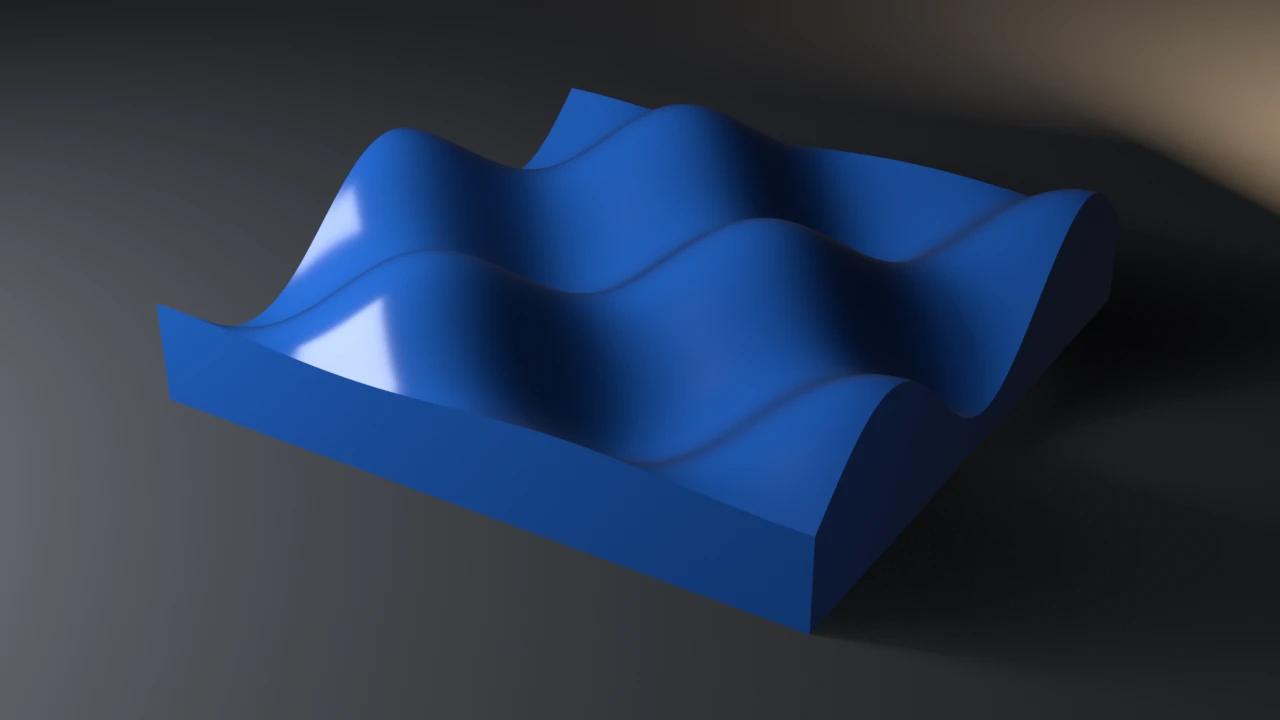
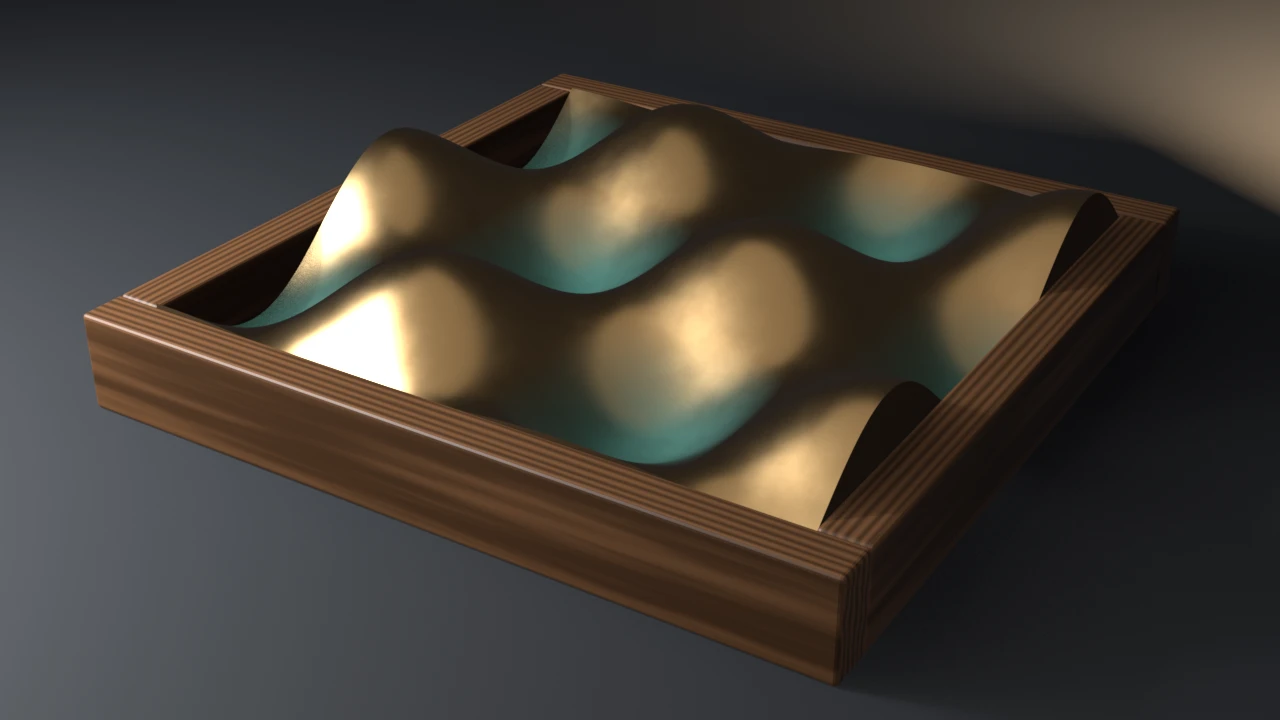
fix(examples): redesign wave-displace as a cast bronze tile in a walnut frame
The render-only tile copy (the checked grid plus an extruded skirt) is now
cast bronze, polished on the crests with verdigris pooled in the troughs.
The patina mask is the tile's own object-space Z, so the colouring is a
readout of the displaced height the check asserts. A walnut frame whose
rails stop at mid-wave height surrounds it, so the crests rise proud of the
frame and the troughs sink below it. A broad soft overhead card gives the
bronze something to mirror. The render path now runs the gallery_framing
gate (exit 10); before this, the README quoted framing numbers the script
never measured. The displacement (one foreach_get, one foreach_set) and
both checks are unchanged.

Evidence (live runs, local):
- .scratch/blender-5.2.1-windows-x64/blender.exe (Blender 5.2.1 LTS):
  check-only exit 0, verts=9409 z_span=1.0999 max_err=2.98e-08.
  --flat exits 4 ("z-span 0.0000 not in (0.8800, 1.1000]").
- .scratch/blender-4.5.11-windows-x64/blender.exe (Blender 4.5.11 LTS):
  check exit 0 with the same numbers; --output render exit 0, framing ok.
- Framing: fill x=0.856 y=0.850, margins l=0.066 r=0.078 b=0.050 t=0.100.
- Contact sheet (docs/gallery/contact-sheets/wave-displace-contact-sheet.webp):
  candidate luma 0.244 / stage 0.225 / warmth +0.106 / sat 0.258, against
  armature-bend 0.243/0.192/-0.144/0.237, damped-track-aim
  0.237/0.218/+0.105/0.178, and bmesh-gear 0.236/0.177/+0.303/0.250.
  Luma, warmth and saturation are inside the band; the stage is slightly
[…]

diff --git a/examples/wave-displace/wave_displace.py b/examples/wave-displace/wave_displace.py
@@ -18,6 +18,11 @@ check. Pass --output to also render a still:
 import bpy, bmesh, sys, os, math, argparse
 from array import array
 
+# Shared Layer 1 framing measurement (render path only) — see gallery_framing.py
+sys.path.insert(0, os.path.join(os.path.dirname(os.path.abspath(__file__)), os.pardir))
+sys.dont_write_bytecode = True  # keep examples/__pycache__ out of the repo tree
+import gallery_framing  # noqa: E402
+
 GRID = 96          # segments per side -> (GRID+1)^2 verts
 SIZE = 6.0
 AMP = 0.55
@@ -75,16 +80,93 @@ def eevee_engine_id():
     return 'BLENDER_EEVEE' if bpy.app.version >= (5, 0, 0) else 'BLENDER_EEVEE_NEXT'
 
 
+def bronze_material():
+    """Cast bronze: polished on the crests, verdigris pooled in the troughs.
+
+    The patina mask is the tile's own object-space Z — the displaced wave
+    height the check asserts — so the colouring is a readout of the wave.
+    """
+    mat = bpy.data.materials.new("CastBronze")
+    mat.use_nodes = True
+    nt = mat.node_tree
+    out = nt.nodes["Material Output"]
+    metal = nt.nodes["Principled BSDF"]
+    metal.inputs["Base Color"].default_value = (0.82, 0.52, 0.23, 1.0)
+    metal.inputs["Metallic"].default_value = 1.0
+    metal.inputs["Roughness"].default_value = 0.26
+    patina = nt.nodes.new("ShaderNodeBsdfPrincipled")
+    patina.inputs["Base Color"].default_value = (0.07, 0.24, 0.19, 1.0)
+    patina.inputs["Roughness"].default_value = 0.72
+    coord = nt.nodes.new("ShaderNodeTexCoord").outputs["Object"]
+    sep = nt.nodes.new("ShaderNodeSeparateXYZ")
+    nt.links.new(coord, sep.inputs["Vector"])
+    band = nt.nodes.new("ShaderNodeMapRange")          # trough (z=-AMP) -> 1, mid -> 0
+    band.inputs["From Min"].default_value = -AMP
+    band.inputs["From Max"].default_value = -0.05
+    band.inputs["To Min"].default_value = 0.85
+    band.inputs["To Max"].default_value = 0.0
+    nt.links.new(sep.outputs["Z"], band.inputs["Value"])
+    noise = nt.nodes.new("ShaderNodeTexNoise")
+    noise.inputs["Scale"].default_value = 2.5
+    noise.inputs["Detail"].default_value = 8.0
+    nt.links.new(coord, noise.inputs["Vector"])
+    speck = nt.nodes.new("ShaderNodeMapRange")
+    speck.inputs["To Min"].default_value = 0.55
+    speck.inputs["To Max"].default_value = 1.25
+    nt.links.new(noise.outputs["Fac"], speck.inputs["Value"])
+    fac = nt.nodes.new("ShaderNodeMath")
+    fac.operation = "MULTIPLY"
+    fac.use_clamp = True
+    nt.links.new(band.outputs["Result"], fac.inputs[0])
+    nt.links.new(speck.outputs["Result"], fac.inputs[1])
+    rough = nt.nodes.new("ShaderNodeMapRange")          # hand-polish wear on the metal
+    rough.inputs["To Min"].default_value = 0.20
+    rough.inputs["To Max"].default_value = 0.40
+    nt.links.new(noise.outputs["Fac"], rough.inputs["Value"])
+    nt.links.new(rough.outputs["Result"], metal.inputs["Roughness"])
+    mix = nt.nodes.new("ShaderNodeMixShader")
+    nt.links.new(fac.outputs["Value"], mix.inputs["Fac"])
+    nt.links.new(metal.outputs["BSDF"], mix.inputs[1])
+    nt.links.new(patina.outputs["BSDF"], mix.inputs[2])
+    nt.links.new(mix.outputs["Shader"], out.inputs["Surface"])
+    return mat
+
+
+def walnut_material():
+    mat = bpy.data.materials.new("Walnut")
+    mat.use_nodes = True
+    nt = mat.node_tree
+    b = nt.nodes["Principled BSDF"]
+    base = (0.15, 0.065, 0.026)
+    b.inputs["Roughness"].default_value = 0.42
+    coord = nt.nodes.new("ShaderNodeTexCoord").outputs["Object"]
+    mapping = nt.nodes.new("ShaderNodeMapping")
+    mapping.inputs["Scale"].default_value = (0.5, 12.0, 12.0)
+    nt.links.new(coord, mapping.inputs["Vector"])
+    tex = nt.nodes.new("ShaderNodeTexWave")
+    tex.wave_type = "BANDS"
+    tex.bands_direction = "Y"
+    tex.inputs["Scale"].default_value = 0.35
+    tex.inputs["Distortion"].default_value = 6.0
+    tex.inputs["Detail"].default_value = 4.0
+    nt.links.new(mapping.outputs["Vector"], tex.inputs["Vector"])
+    ramp = nt.nodes.new("ShaderNodeValToRGB")
+    ramp.color_ramp.elements[0].color = (*(c * 0.55 for c in base), 1.0)
+    ramp.color_ramp.elements[1].color = (*(c * 1.5 for c in base), 1.0)
+    nt.links.new(tex.outputs["Fac"], ramp.inputs["Fac"])
+    nt.links.new(ramp.outputs["Color"], b.inputs["Base Color"])
+    return mat
+
+
 def render_still(obj, path, engine):
     scene = bpy.context.scene
-    for poly in obj.data.polygons:
-        poly.use_smooth = True
-    mat = bpy.data.materials.new("WaveMat")
-    mat.use_nodes = True
-    bsdf = mat.node_tree.nodes["Principled BSDF"]
-    bsdf.inputs["Base Color"].default_value = (0.012, 0.09, 0.38, 1.0)  # deep sapphire
-    bsdf.inputs["Roughness"].default_value = 0.18
-    obj.data.materials.append(mat)
+    bronze = bronze_material()
+    cast = bpy.data.materials.new("CastSide")      # sand-cast flanks, no polish
+    cast.use_nodes = True
+    cb = cast.node_tree.nodes["Principled BSDF"]
+    cb.inputs["Base Color"].default_value = (0.30, 0.17, 0.08, 1.0)
+    cb.inputs["Metallic"].default_value = 1.0
+    cb.inputs["Roughness"].default_value = 0.55
 
     # render-only staging: the displaced grid is the contract and stays as
     # checked. A copy of it gets a skirt, its boundary extruded straight
@@ -95,6 +177,8 @@ def render_still(obj, path, engine):
     bm = bmesh.new()
     try:
         bm.from_mesh(tile_me)
+        for f in bm.faces:
+            f.smooth = True
         rim = [e for e in bm.edges if e.is_boundary]
         ret = bmesh.ops.extrude_edge_only(bm, edges=rim)
         skirt = [g for g in ret["geom"] if isinstance(g, bmesh.types.BMFace)]
@@ -102,17 +186,50 @@ def render_still(obj, path, engine):
             if isinstance(g, bmesh.types.BMVert):
                 g.co.z = -AMP - base
         bottom = [g for g in ret["geom"] if isinstance(g, bmesh.types.BMEdge) and g.is_boundary]
-        bmesh.ops.holes_fill(bm, edges=bottom, sides=0)
+        filled = bmesh.ops.holes_fill(bm, edges=bottom, sides=0)["faces"]
         bmesh.ops.recalc_face_normals(bm, faces=bm.faces)
-        for f in skirt:
+        for f in skirt + filled:
             f.smooth = False
+            f.material_index = 1
         bm.to_mesh(tile_me)
     finally:
         bm.free()
+    tile_me.materials.append(bronze)   # 0: the displaced wave face
+    tile_me.materials.append(cast)     # 1: skirt and base
     tile = bpy.data.objects.new("WaveTile", tile_me)
     tile.location.z = AMP + base
     scene.collection.objects.link(tile)
     obj.hide_render = True
+
+    # a walnut frame around the cast tile: its rails stop at mid-wave height,
+    # so the crests rise proud of the frame and the troughs sink below it
+    walnut = walnut_material()
+    rail_w, rail_h, half = 0.42, AMP + base + 0.02, SIZE / 2
+    frame = []
+    for name, dims, loc in (
+        ("Frame.Front", (SIZE + 2 * rail_w, rail_w, rail_h), (0, -half - rail_w / 2, rail_h / 2)),
+        ("Frame.Back", (SIZE + 2 * rail_w, rail_w, rail_h), (0, half + rail_w / 2, rail_h / 2)),
+        ("Frame.Left", (SIZE, rail_w, rail_h), (-half - rail_w / 2, 0, rail_h / 2)),
+        ("Frame.Right", (SIZE, rail_w, rail_h), (half + rail_w / 2, 0, rail_h / 2)),
+    ):
+        me = bpy.data.meshes.new(name)
+        bm = bmesh.new()
+        try:
+            bmesh.ops.create_cube(bm, size=1.0)
+            for v in bm.verts:
+                v.co.x *= dims[0]; v.co.y *= dims[1]; v.co.z *= dims[2]
+            bmesh.ops.bevel(bm, geom=list(bm.edges), offset=0.035, segments=3,
+                            profile=0.5, affect="EDGES", clamp_overlap=True)
+            bm.to_mesh(me)
+        finally:
+            bm.free()
+        me.materials.append(walnut)
+        ob = bpy.data.objects.new(name, me)
+        ob.location = loc
+        if name in ("Frame.Left", "Frame.Right"):
+            ob.rotation_euler.z = math.radians(90)   # grain runs along each rail
+        scene.collection.objects.link(ob)
+        frame.append(ob)
 
     floor_me = bpy.data.meshes.new("Floor")
     bm = bmesh.new()
@@ -153,6 +270,9 @@ def render_still(obj, path, engine):
     light("Fill", (9.0, -6.0, 3.0), 120.0, 10.0, (0.78, 0.86, 1.0), (70, 0, 55))
     light("Rim", (5.0, 7.5, 4.0), 1800.0, 5.0, (1.0, 0.68, 0.38), (-62, 0, 148))
     light("Wedge", (4.0, 10.5, 7.0), 1500.0, 9.0, (1.0, 0.76, 0.5), (-65, 0, 190))
+    # a broad soft overhead card the polished bronze can mirror; bare metal
+    # in a dark studio otherwise goes muddy on every face turned from the key
+    light("Card", (1.0, -3.0, 9.0), 220.0, 14.0, (1.0, 0.93, 0.82), (15, 0, 0))
 
     aim = bpy.data.objects.new("Aim", None)
     aim.location = (0.0, -0.4, 0.05)
@@ -180,8 +300,14 @@ def render_still(obj, path, engine):
     scene.render.resolution_y = 720
     scene.render.image_settings.file_format = 'PNG'
     scene.render.filepath = path
+    bpy.context.view_layer.update()
+    # Layer 1 framing gate before the beauty render (exit 10 on violation)
+    fcode = gallery_framing.check_framing(scene, cam, hero=[tile] + frame,
+                                          elements=[tile] + frame, stage=[floor, wall])
+    if fcode:
+        return fcode
     bpy.ops.render.render(write_still=True)
-    return os.path.exists(path) and os.path.getsize(path) > 0
+    return 0 if os.path.exists(path) and os.path.getsize(path) > 0 else 6
 
 
 def main():
@@ -201,9 +327,11 @@ def main():
         return code
 
     if args.output:
-        if not render_still(obj, os.path.abspath(args.output), args.engine):
-            print("ERROR: render produced no file", file=sys.stderr)
-            return 6
+        rcode = render_still(obj, os.path.abspath(args.output), args.engine)
+        if rcode:
+            if rcode == 6:
+                print("ERROR: render produced no file", file=sys.stderr)
+            return rcode
         print(f"rendered still {args.output}")
 
     print("wave-displace OK")

diff --git a/examples/wave-displace/README.md b/examples/wave-displace/README.md
@@ -20,10 +20,15 @@ so that framing could not be gated at all.
 
 The render path now stages a **copy** of the checked grid. Its boundary is
 extruded straight down to a flat base 0.30 m below the deepest trough, so the
-wave is the top face of a cast tile standing on the studio floor, framed whole.
-The checked `Wave` object is left exactly as asserted and hidden from the
-render. The copy is render-only and never enters `check()`. Measured framing on
-5.2.1: fill 0.753 x / 0.761 y, every margin ≥ 0.117.
+wave is the top face of a cast bronze tile, set in a walnut frame whose rails stop
+at mid-wave height: crests rise proud of the frame, troughs sink below it. The
+bronze is polished on the crests and carries verdigris in the troughs — the patina
+mask is the tile's own object-space Z, so the colouring is a readout of the
+displaced height the check asserts. The checked `Wave` object is left exactly as
+asserted and hidden from the render. The copy and frame are render-only and never
+enter `check()`. The render path gates framing through
+`examples/gallery_framing.py` (exit 10); measured on 5.2.1: fill 0.856 x /
+0.850 y, every margin ≥ 0.050.
 
 ## Run
 
@@ -52,6 +57,7 @@ against it.
 | 4 | Z-span not in the closed-form band (`--flat` lands here) |
 | 5 | A vertex is off the closed-form wave |
 | 6 | `--output` produced no file |
+| 10 | Gallery framing violation (`gallery_framing`) |
 
 The `blender-smoke` workflow runs the check on Blender 5.2 LTS and 4.5 LTS
 (5.1 on the weekly cron, the `needs-5.1` PR label, or manual dispatch).

diff --git a/README.md b/README.md
@@ -386,7 +386,7 @@ then re-reads its own render and fails unless the pixels prove the flat-vs-check
 </tr>
 <tr>
 <td width="46%" valign="middle">
-<a href="examples/wave-displace/"><img src="examples/wave-displace/preview.webp" alt="Wave displace: a sapphire-blue tile whose top is displaced into smooth standing-wave dunes, standing on a dark studio floor" /></a>
+<a href="examples/wave-displace/"><img src="examples/wave-displace/preview.webp" alt="Wave displace: a cast bronze tile in a walnut frame whose top is displaced into smooth standing-wave crests, verdigris pooled in the troughs" /></a>
 </td>
 <td valign="middle">
 
